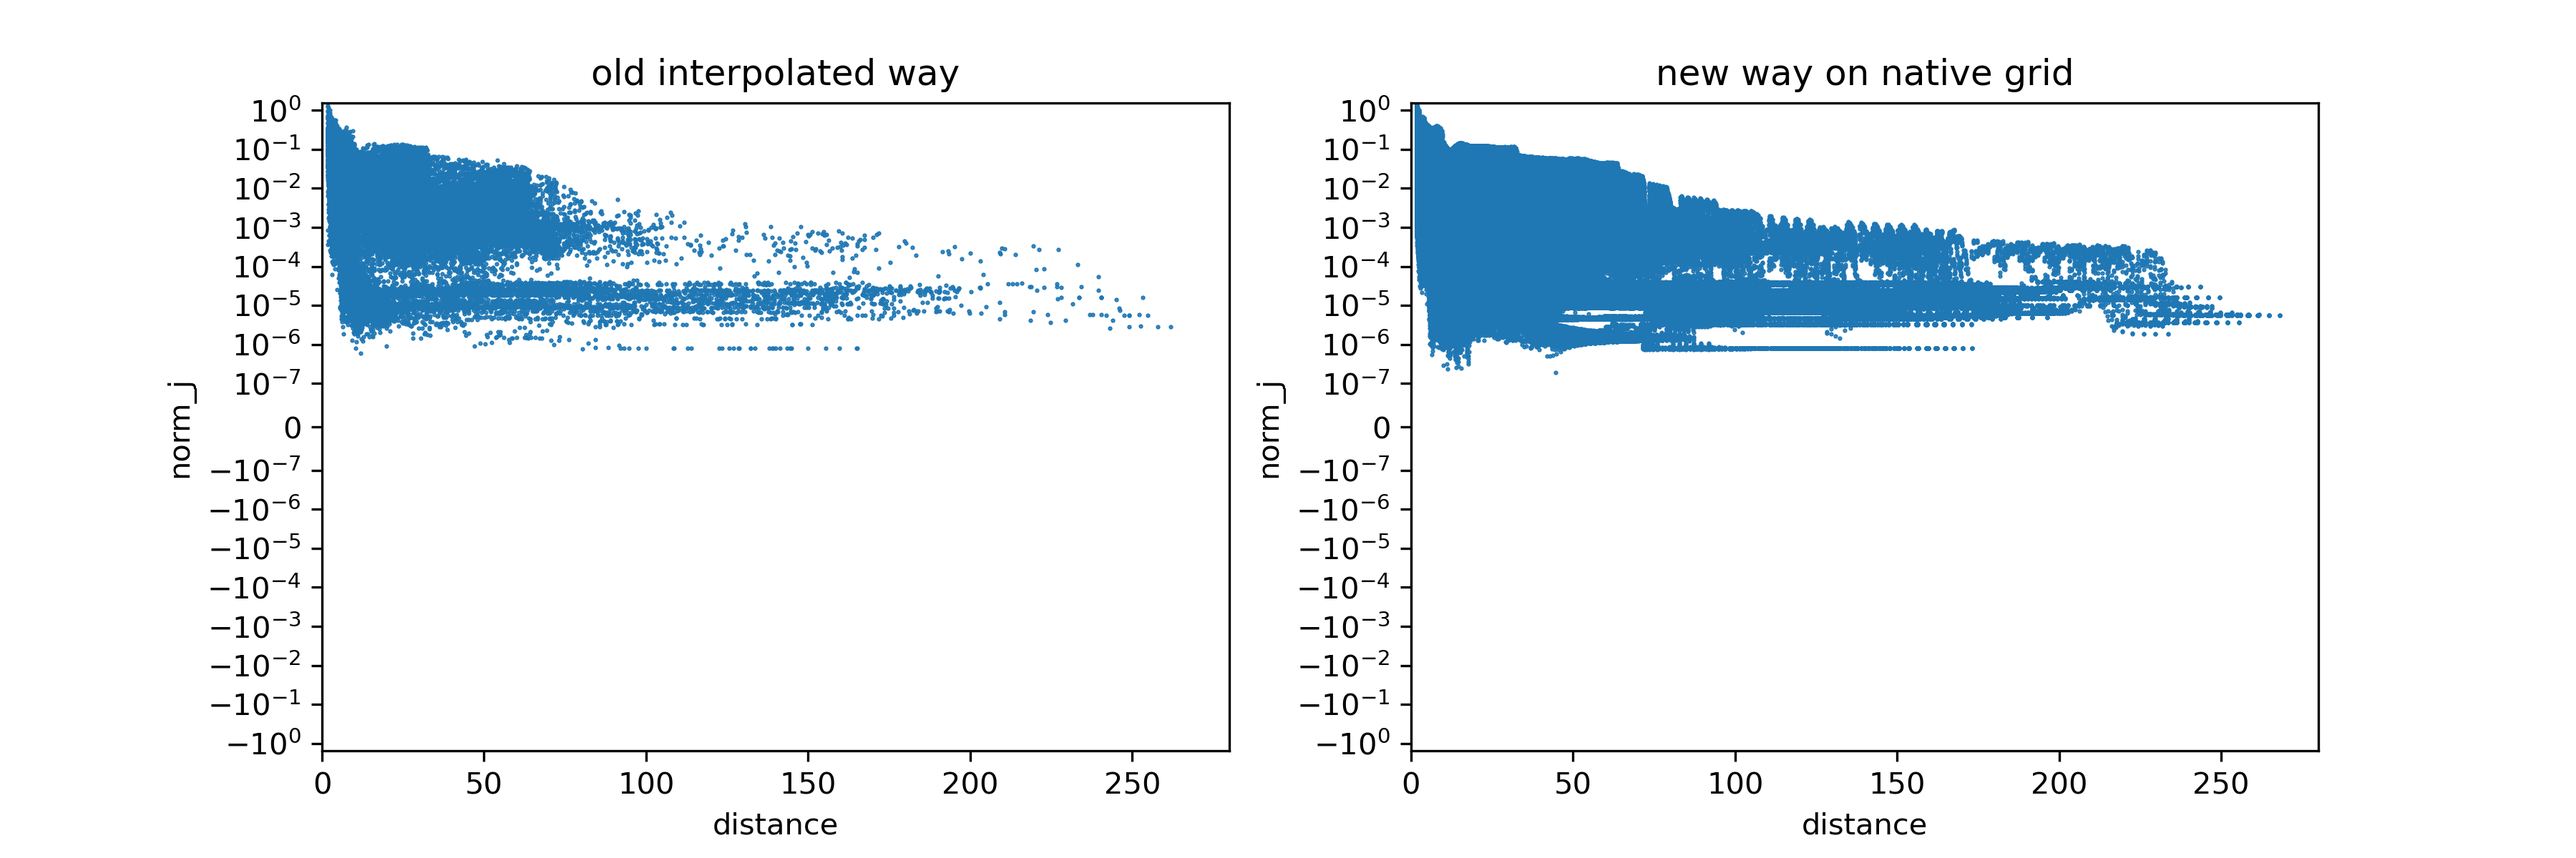
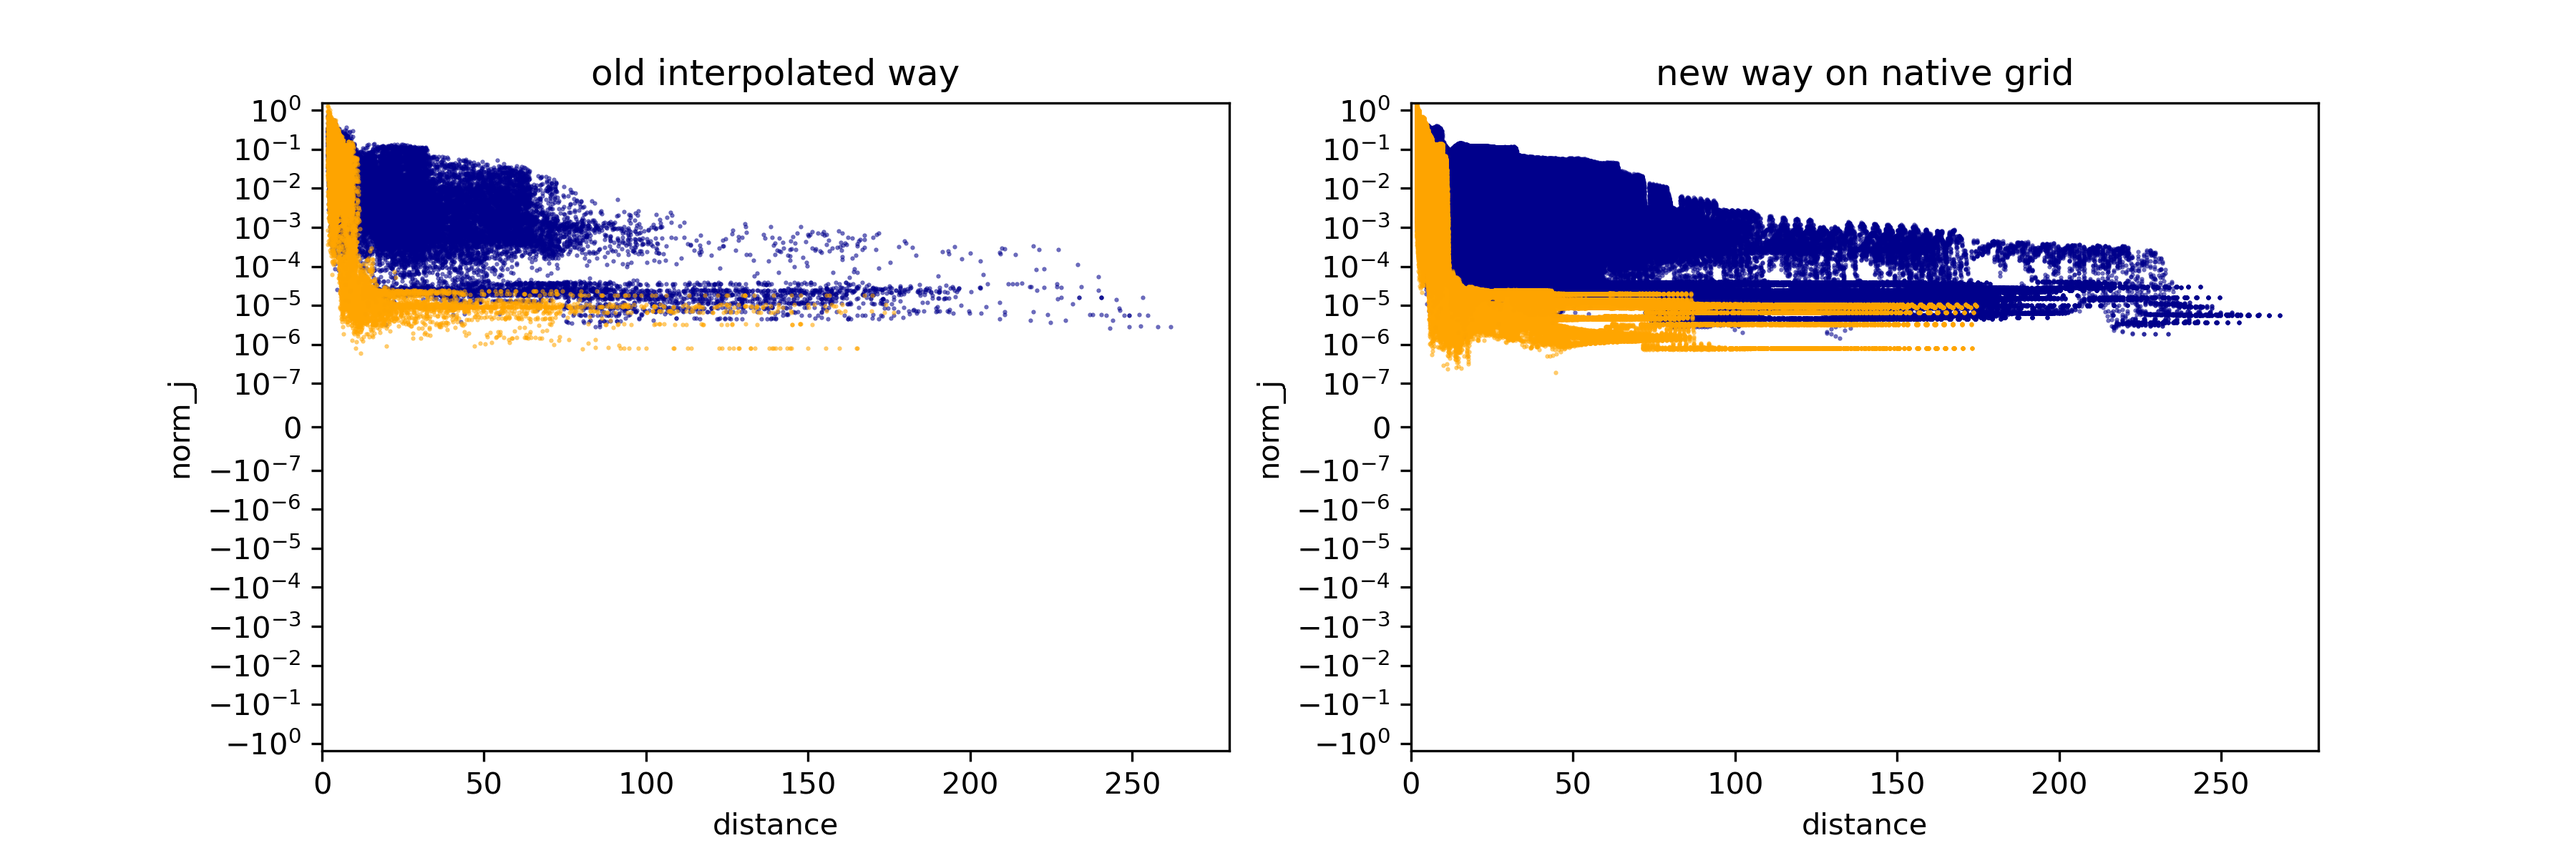
color code plots

Changed region(s): [[0.5289, 0.1233, 0.8711, 0.4317], [0.1244, 0.1233, 0.3733, 0.4317], [0.4044, 0.3392, 0.4356, 0.37]]

diff --git a/images/native_vs_interpolated/plots.md b/images/native_vs_interpolated/plots.md
@@ -12,6 +12,10 @@ and those within 1.8 R_E from earths center.
 taking curl_b1, and dividing by mu_0 = 8014.956840
 (vacuum permeability in the apropriate units)
 
+In all the plots that follow, the dots are color coded based on
+whether the point is on the day side or the night side.
+Night side is Blue, Day side is Orange.
+
 ## divergence of b1
 
 ![](div_b1.png)
